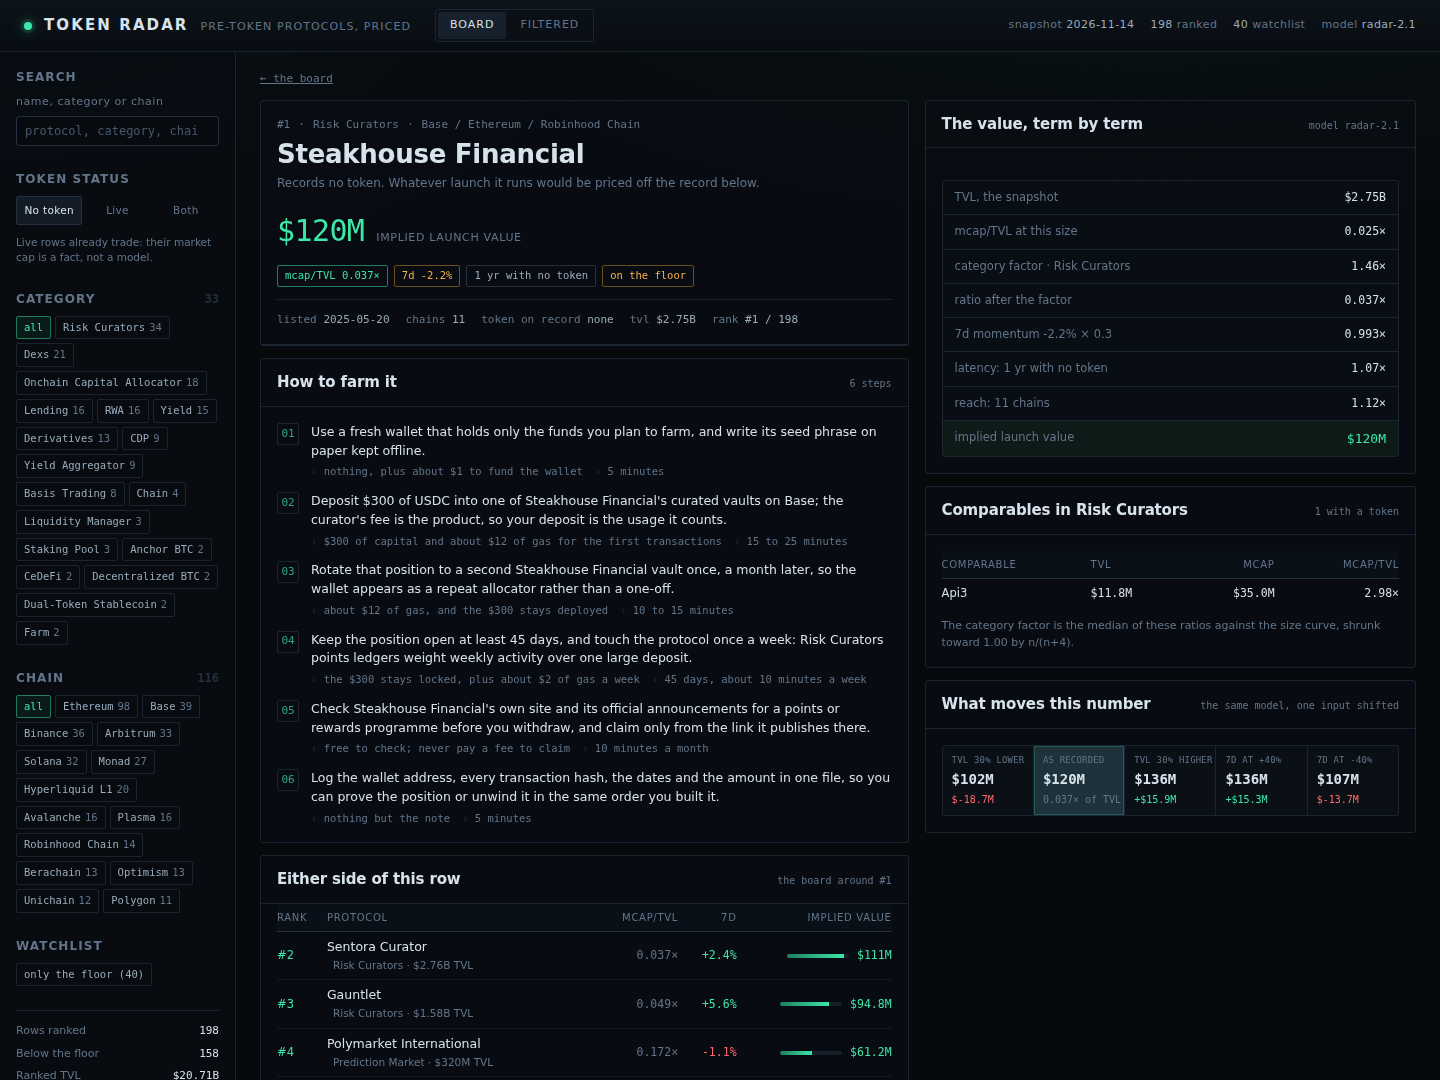
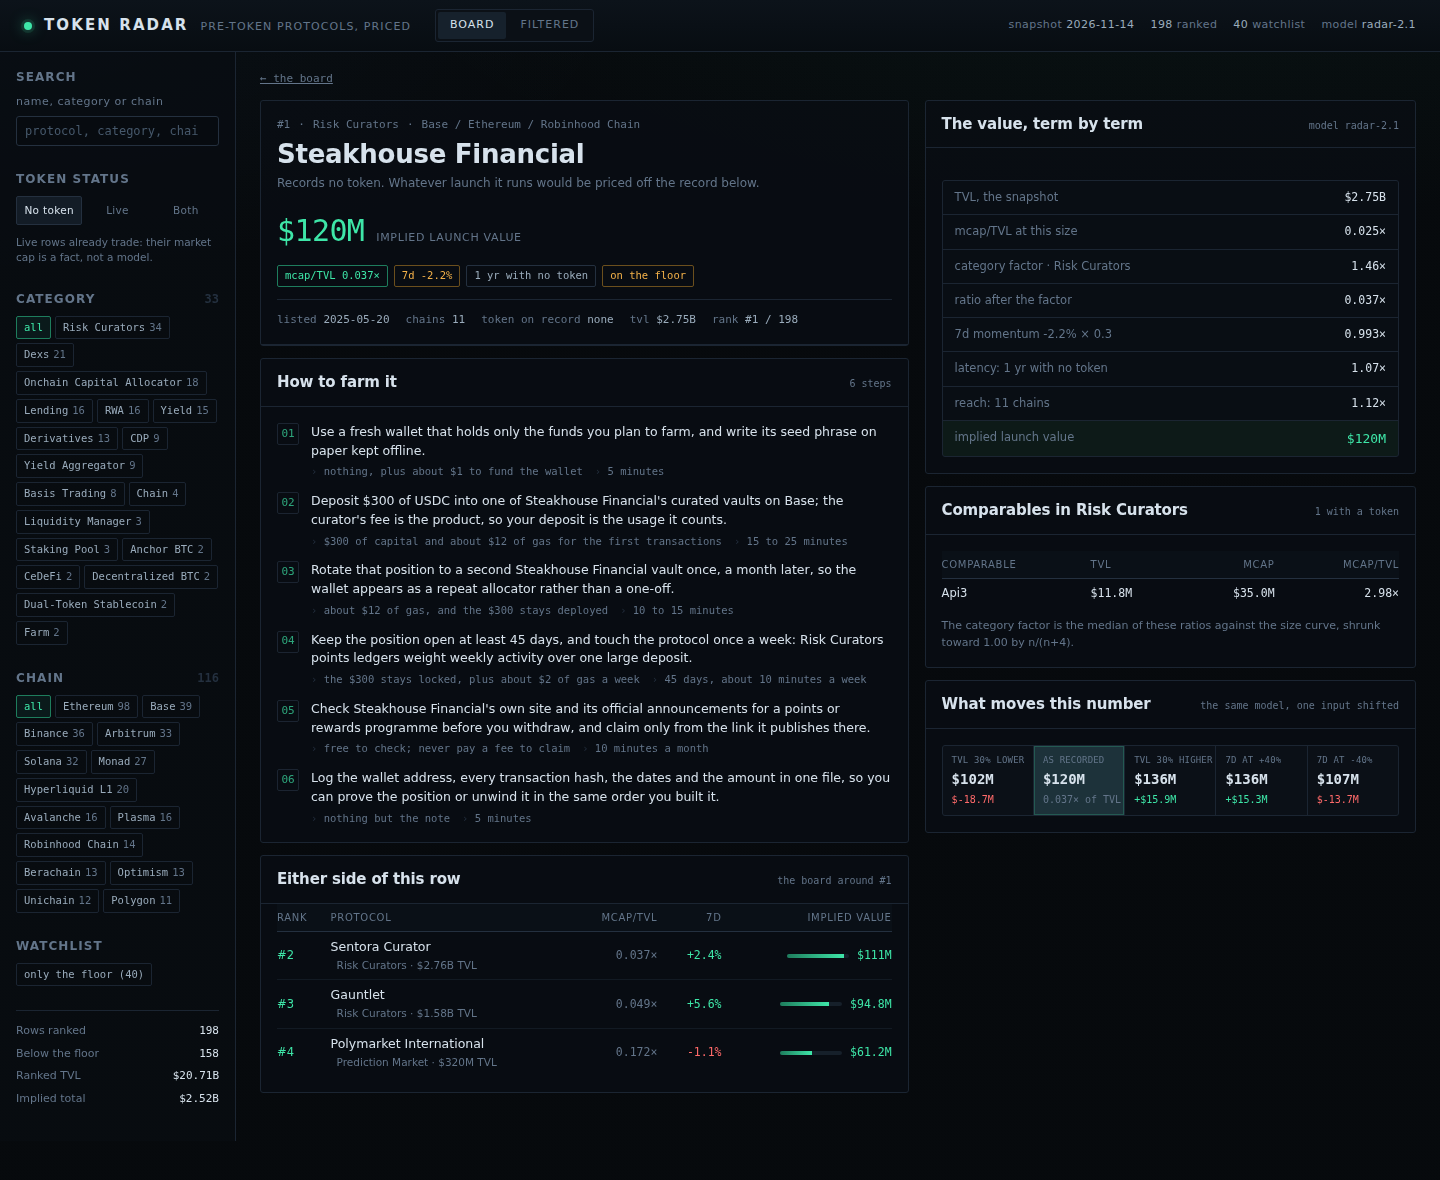
token-radar-01: radar + dashboard
Detail view: the farm plan and the neighbouring rows share the left column, so the
page closes without a dead half-screen. Filter cards carry the chains a protocol
runs on. Screenshot heights re-tuned; detail is now 1180, filtered 1440.

diff --git a/dashboard/app.js b/dashboard/app.js
@@ -444,8 +444,8 @@
     );
 
     var peers = D.rows.filter(function (x) {
-      return x.slug !== r.slug && Math.abs(x.rank - r.rank) <= 4;
-    }).slice(0, 5);
+      return x.slug !== r.slug && Math.abs(x.rank - r.rank) <= 3;
+    }).slice(0, 4);
     var peerMax = Math.max(1, Math.max.apply(null, peers.map(function (x) { return x.implied_value_usd; }).concat([r.implied_value_usd])));
     var peerRows = h('tbody');
     peers.forEach(function (x) {
@@ -621,6 +621,7 @@
           h('div', { class: 'row' }, h('span', { text: 'tvl' }), h('b', { text: usd(r.tvl_usd) })),
           h('div', { class: 'row' }, h('span', { text: '7d' }), h('b', { class: r.change_7d >= 0 ? 'pos' : 'neg', text: pct(r.change_7d) })),
           h('div', { class: 'row' }, h('span', { text: 'ratio' }), h('b', { text: multiple(r.ratio) })),
+          h('div', { class: 'row' }, h('span', { text: 'chains' }), h('b', { text: r.chains.length ? r.chains.slice(0, 2).join(' · ') : 'none' })),
           h('div', { class: 'row' }, h('span', { text: r.category || 'uncategorised' }), h('b', { text: age(r.age_days) }))
         );
       }))
